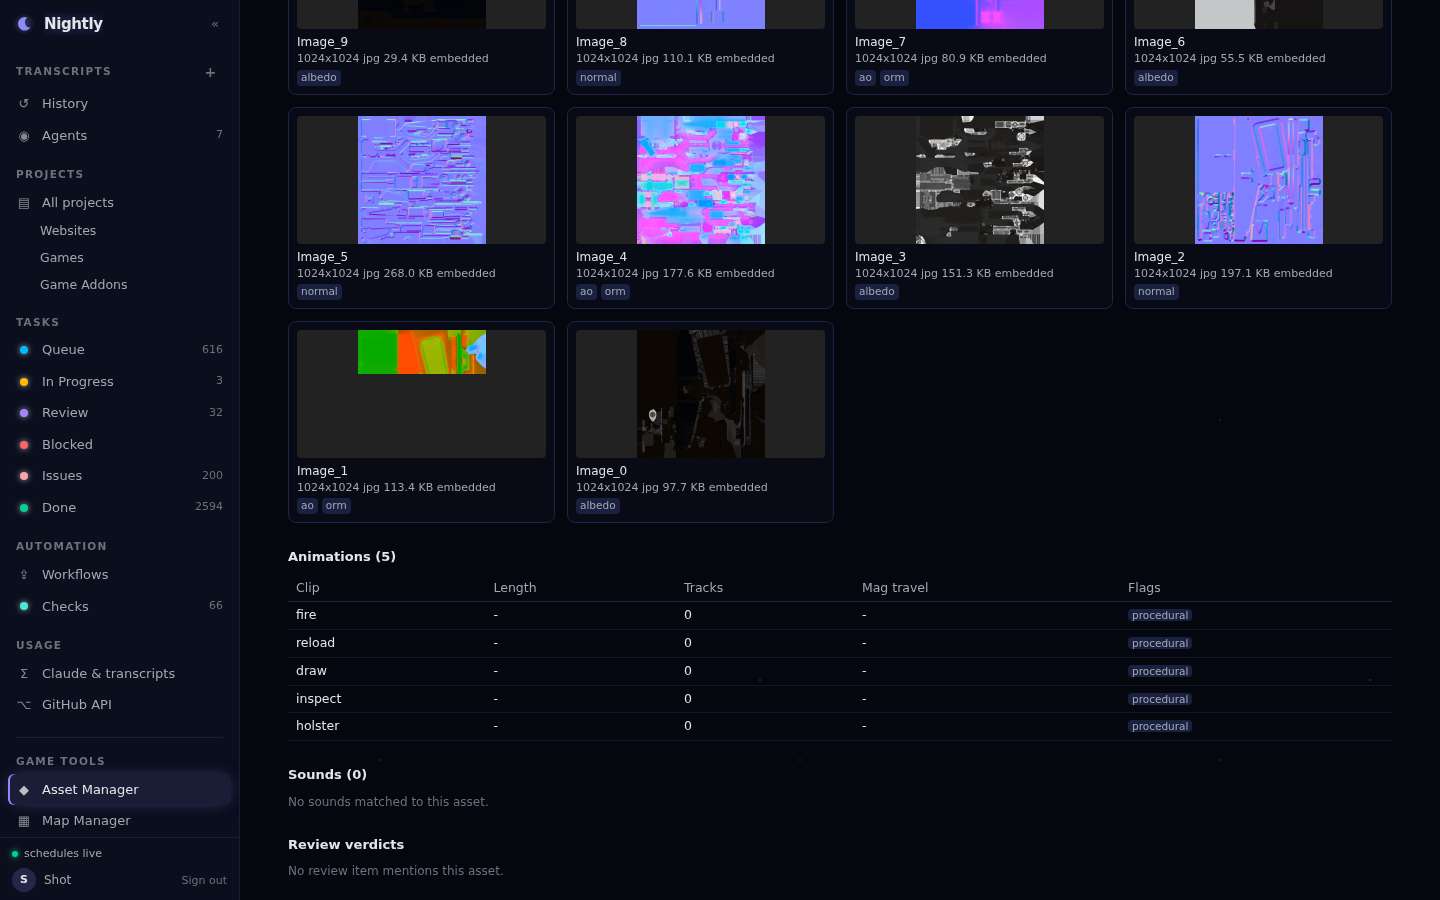
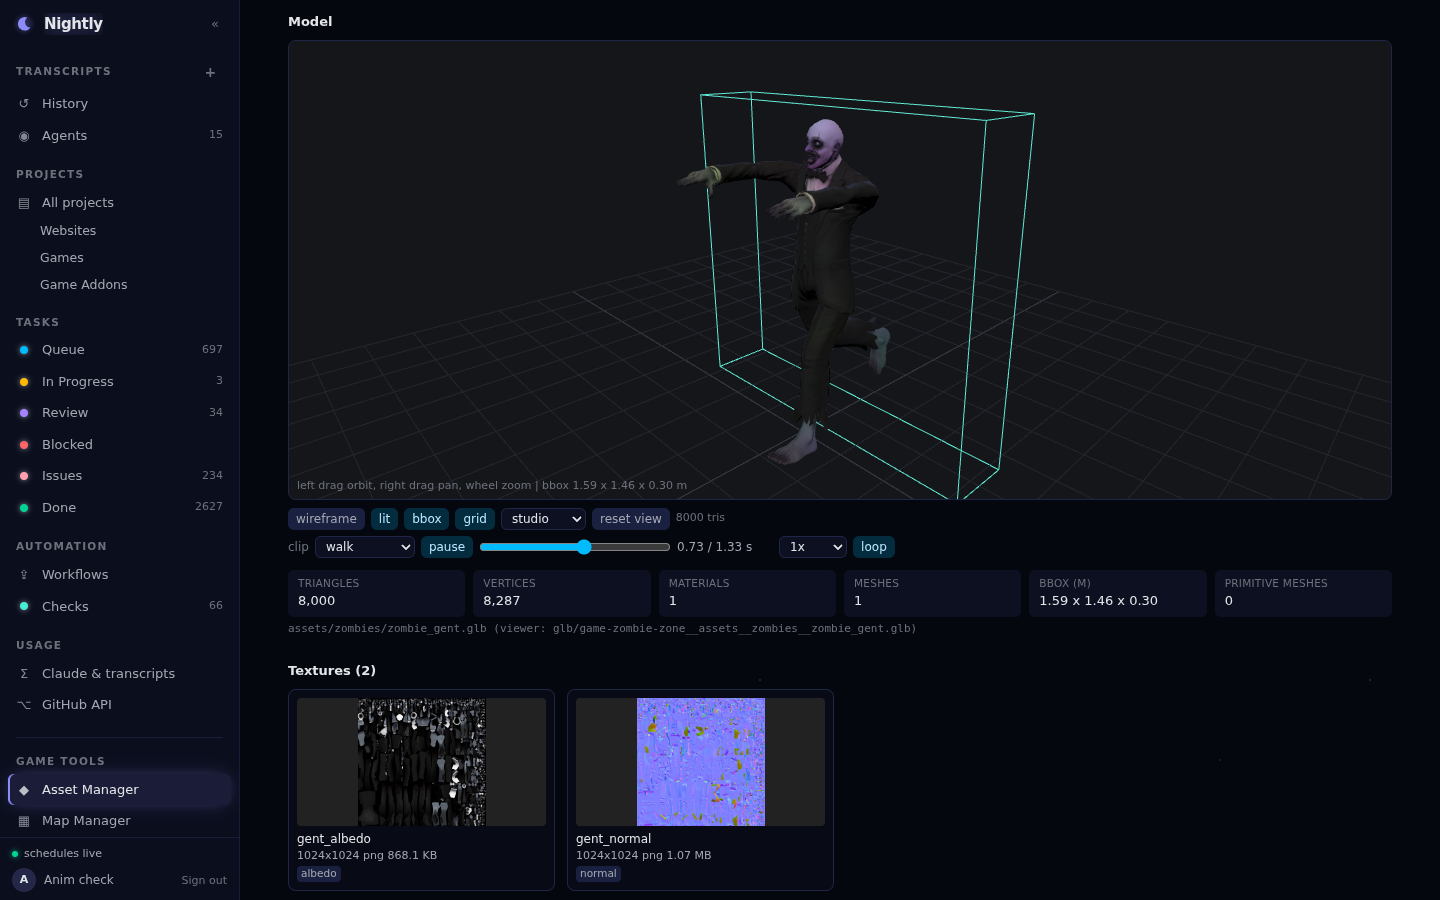
assets: clip playback UI in the Model viewer; clickable Animations rows
AssetViewer runs a THREE.AnimationMixer over gltf.animations with a clip
select, play/pause, scrub + time readout, speed (RATES) and loop toggle.
Starts paused at frame 0 of defaultClip; framing and bbox use the rest pose;
the mixer is stopped and uncached on unmount; no controls without clips.
AssetDetail rows select and play their clip, scroll the viewer into view,
mark the playing row and grey out static or missing clips.

diff --git a/src/components/AssetViewer.tsx b/src/components/AssetViewer.tsx
@@ -2,6 +2,7 @@
 import { useEffect, useRef, useState } from "react"
 import type * as T from "three"
 import { sightMagnification, sightPose, type Sight } from "./sightLine"
+import { advance, clipPlayable, defaultClip, RATES, type ClipInfo } from "../../lib/anim-play.mjs"
 
 type Opts = { wire: boolean; unlit: boolean; bbox: boolean; grid: boolean; light: string; fly: boolean; collision: boolean; trigger: boolean; entity: boolean; view: View }
 type View = "converted" | "original" | "split"
@@ -9,7 +10,13 @@ type Spawn = { x: number; y: number; z: number; yaw: number; team: string }
 const LIGHTS = ["studio", "outdoor", "dark rim", "flat"]
 /** An attachment mounted on the model: its glb, and the transform in the model's space (metres, rotation in degrees). */
 export type Mounted = { key: string; url: string; pos: number[]; rot: number[]; scale: number[] }
-type Api = { apply: (o: Opts) => void; reset: () => void; spawn: (i: number) => void; mount: (list: Mounted[]) => void; sight: (on: boolean, s: Sight | null) => void }
+type Api = { apply: (o: Opts) => void; reset: () => void; spawn: (i: number) => void; mount: (list: Mounted[]) => void; sight: (on: boolean, s: Sight | null) => void; anim: AnimApi }
+type AnimApi = { select: (name: string) => void; play: (on: boolean) => void; seek: (t: number) => void; rate: (r: number) => void; loop: (on: boolean) => void }
+/** What the viewer reports about the GLB's own clips: every clip in the file, the selected one and whether it is playing. */
+export type AnimState = { clips: ClipInfo[]; clip: string; playing: boolean }
+/** A request from outside (the Animations table) to select and play a clip; `n` changes on every click so the same clip can be asked for twice. */
+export type ClipRequest = { clip: string; n: number }
+const fmtT = (t: number) => t.toFixed(2)
 
 /** three.js viewer: orbit (left drag), pan (right drag), zoom (wheel); wireframe, textured/unlit, lighting presets, bounding box (metres) and grid.
  *  `map` (a converted map GLB): starts in free-fly (click to capture the mouse; W/A/S/D move, mouse look, Shift fast, Space up, Ctrl down,
@@ -17,7 +24,21 @@ type Api = { apply: (o: Opts) => void; reset: () => void; spawn: (i: number) => 
  *  and jump-to-spawn from the spawn list in the scene extras. Orbit stays available as a toggle.
  *  `original` (a map's source BSP exported to GLB in the same frame): adds converted / original / split views; the split view draws the
  *  original on the left and the converted map on the right through ONE camera, so fly and orbit move both at once. */
-export function AssetViewer({ url, bbox, textures, map, original, mounted, sight }: { url: string; bbox?: number[]; textures?: { name: string; url: string }[]; map?: boolean; original?: string; mounted?: Mounted[]; sight?: Sight | null }) {
+export function AssetViewer({ url, bbox, textures, map, original, mounted, sight, playClip, onAnim }: { url: string; bbox?: number[]; textures?: { name: string; url: string }[]; map?: boolean; original?: string; mounted?: Mounted[]; sight?: Sight | null; playClip?: ClipRequest | null; onAnim?: (s: AnimState) => void }) {
+    // clip playback (the GLB's own animations): the mixer lives in the effect below; these mirror its state for the controls
+    const [clips, setClips] = useState<ClipInfo[]>([])
+    const [clip, setClip] = useState("")
+    const [playing, setPlaying] = useState(false)
+    const [t, setT] = useState(0)
+    const [rate, setRate] = useState(1)
+    const [loop, setLoop] = useState(true)
+    const onAnimRef = useRef(onAnim)
+    onAnimRef.current = onAnim
+    useEffect(() => { onAnimRef.current?.({ clips, clip, playing }) }, [clips, clip, playing])
+    useEffect(() => {
+        if (!playClip || !api.current || !clips.some((c) => c.name === playClip.clip && clipPlayable(c.length))) return
+        api.current.anim.select(playClip.clip); api.current.anim.play(true)
+    }, [playClip, clips])
     const [sightOn, setSightOn] = useState(false)
     const box = useRef<HTMLDivElement>(null)
     const api = useRef<Api | null>(null)
@@ -58,6 +79,36 @@ export function AssetViewer({ url, bbox, textures, map, original, mounted, sight
             let view: View = "converted"
             let helper: T.Box3Helper | null = null
             let grid: T.GridHelper | null = null
+            // clip playback: one action at a time, the playhead is driven by advance() and sampled with mixer.update(0)
+            let mixer: T.AnimationMixer | null = null
+            const clipMap = new Map<string, T.AnimationClip>()
+            const anim = { action: null as T.AnimationAction | null, name: "", len: 0, t: 0, playing: false, rate: 1, loop: true, shown: 0 }
+            const sample = () => {
+                if (!mixer || !anim.action) return
+                anim.action.time = Math.min(anim.t, Math.max(0, anim.len - 1e-4))   // LoopRepeat would wrap exactly `len` back to frame 0
+                mixer.update(0)
+                el.dataset.anim = `${anim.name} ${fmtT(anim.t)} ${anim.playing ? "playing" : "paused"}`
+            }
+            const animApi: AnimApi = {
+                select: (name) => {
+                    if (!mixer) return
+                    mixer.stopAllAction()   // the last action's bindings drop to zero users and restore the rest pose
+                    const c = clipMap.get(name)
+                    anim.name = name; anim.t = 0; anim.playing = false
+                    anim.action = c && clipPlayable(c.duration) ? mixer.clipAction(c) : null
+                    anim.len = anim.action ? c!.duration : 0
+                    if (anim.action) { anim.action.setLoop(THREE.LoopRepeat, Infinity); anim.action.play() }
+                    sample(); setClip(name); setT(0); setPlaying(false)
+                },
+                play: (on) => {
+                    if (!anim.action) return
+                    if (on && !anim.loop && anim.t >= anim.len) anim.t = 0
+                    anim.playing = on; sample(); setPlaying(on); setT(anim.t)
+                },
+                seek: (v) => { if (!anim.action) return; anim.t = Math.max(0, Math.min(anim.len, v)); sample(); setT(anim.t) },
+                rate: (r) => { anim.rate = r },
+                loop: (on) => { anim.loop = on },
+            }
             const sphere = new THREE.Sphere(new THREE.Vector3(), 1)
             const orig = new Map<T.Mesh, T.Material | T.Material[]>()
             const unlitCache = new Map<T.Material, T.Material>()
@@ -173,7 +224,7 @@ export function AssetViewer({ url, bbox, textures, map, original, mounted, sight
                 camera.position.set(...p.position); camera.lookAt(...p.target); camera.fov = p.fov; camera.updateProjectionMatrix()
                 el.dataset.sight = `${s.key} fov ${p.fov.toFixed(1)}`
             }
-            api.current = { apply, reset, spawn: toSpawn, mount, sight: sightFn }
+            api.current = { apply, reset, spawn: toSpawn, mount, sight: sightFn, anim: animApi }
             if (original) {
                 new GLTFLoader().load(original, (g) => {
                     if (dead) return
@@ -222,6 +273,14 @@ export function AssetViewer({ url, bbox, textures, map, original, mounted, sight
                     if (spawnList.length) toSpawn(0)
                 }
                 apply(optsRef.current)
+                // after the framing above, so the bbox, grid and camera come from the rest pose; skinned meshes keep that rest-pose box while animating
+                if (!map && gltf.animations.length) {
+                    mixer = new THREE.AnimationMixer(root)
+                    for (const c of gltf.animations) clipMap.set(c.name, c)
+                    const list = gltf.animations.map((c) => ({ name: c.name, length: c.duration }))
+                    setClips(list)
+                    animApi.select(defaultClip(list))
+                }
                 let tris = 0
                 root.traverse((n) => { const m = n as T.Mesh; if (m.isMesh) tris += (m.geometry.index ? m.geometry.index.count : m.geometry.attributes.position.count) / 3 })
                 setState(`ok ${Math.round(tris)} tris`)
@@ -233,6 +292,14 @@ export function AssetViewer({ url, bbox, textures, map, original, mounted, sight
             const tick = () => {
                 raf = requestAnimationFrame(tick)
                 const dt = Math.min(0.1, clock.getDelta())
+                if (anim.playing && anim.action) {
+                    const r = advance(anim.t, dt, anim.rate, anim.len, anim.loop)
+                    anim.t = r.t
+                    if (r.ended) { anim.playing = false; setPlaying(false) }
+                    sample()
+                    anim.shown += dt
+                    if (anim.shown > 0.066 || r.ended) { anim.shown = 0; setT(anim.t) }   // the readout and slider at ~15 Hz, not every frame
+                }
                 if (fly.on) {
                     const k = fly.keys, v = fly.speed * dt * (k.has("ShiftLeft") || k.has("ShiftRight") ? 4 : 1)
                     const fwd = new THREE.Vector3(); camera.getWorldDirection(fwd)
@@ -256,6 +323,7 @@ export function AssetViewer({ url, bbox, textures, map, original, mounted, sight
             tick()
             cleanup = () => {
                 cancelAnimationFrame(raf); ro.disconnect(); controls.dispose()
+                if (mixer) { mixer.stopAllAction(); if (root) mixer.uncacheRoot(root); for (const c of clipMap.values()) mixer.uncacheClip(c); mixer = null }
                 document.removeEventListener("pointerlockchange", onLock); document.removeEventListener("mousemove", onMove)
                 document.removeEventListener("keydown", kd); document.removeEventListener("keyup", ku)
                 if (document.pointerLockElement === renderer.domElement) document.exitPointerLock()
@@ -263,7 +331,7 @@ export function AssetViewer({ url, bbox, textures, map, original, mounted, sight
                 renderer.dispose(); renderer.domElement.remove()
             }
         })()
-        return () => { dead = true; api.current = null; cleanup() }
+        return () => { dead = true; api.current = null; cleanup(); setClips([]); setClip(""); setPlaying(false); setT(0); setRate(1); setLoop(true) }
     }, [url, original])
     const btn = (on: boolean) => `rounded-md px-2 py-0.5 text-[12px] ${on ? "bg-sky-400/20 text-sky-200" : "bg-hover text-dim hover:text-fg"}`
     return (
@@ -291,6 +359,27 @@ export function AssetViewer({ url, bbox, textures, map, original, mounted, sight
                 <button className={btn(false)} onClick={() => { setSightOn(false); api.current?.reset() }}>reset view</button>
                 <span className="text-[11px] text-muted">{state.startsWith("ok") ? state.slice(3) : ""}{original && ostate.startsWith("ok") ? ` (original ${ostate.slice(3)})` : ""}</span>
             </div>
+            {clips.length > 0 && (() => {
+                const cur = clips.find((c) => c.name === clip)
+                const len = cur && clipPlayable(cur.length) ? cur.length : 0
+                const sel = "rounded-md border border-line bg-panel px-1.5 py-0.5 text-[12px]"
+                return (
+                    <div className="mt-1.5 flex flex-wrap items-center gap-1.5 text-[12px]" data-testid="anim-controls">
+                        <span className="text-muted">clip</span>
+                        <select className={sel} value={clip} data-testid="anim-clip" onChange={(e) => api.current?.anim.select(e.target.value)}>
+                            {clips.map((c) => <option key={c.name} value={c.name} disabled={!clipPlayable(c.length)}>{c.name}{clipPlayable(c.length) ? "" : " (static)"}</option>)}
+                        </select>
+                        <button className={btn(playing)} disabled={!len} data-testid="anim-play" onClick={() => api.current?.anim.play(!playing)}>{playing ? "pause" : "play"}</button>
+                        <input type="range" min={0} max={len || 1} step={0.001} value={Math.min(t, len)} disabled={!len} data-testid="anim-scrub" className="w-48 accent-sky-400"
+                            onChange={(e) => { if (playing) api.current?.anim.play(false); api.current?.anim.seek(Number(e.target.value)) }} />
+                        <span className="w-24 tabular-nums text-dim" data-testid="anim-time">{fmtT(Math.min(t, len))} / {fmtT(len)} s</span>
+                        <select className={sel} value={rate} data-testid="anim-rate" onChange={(e) => { const r = Number(e.target.value); setRate(r); api.current?.anim.rate(r) }}>
+                            {RATES.map((r) => <option key={r} value={r}>{r}x</option>)}
+                        </select>
+                        <button className={btn(loop)} data-testid="anim-loop" onClick={() => { setLoop(!loop); api.current?.anim.loop(!loop) }}>loop</button>
+                    </div>
+                )
+            })()}
         </div>
     )
 }

diff --git a/src/components/AssetDetail.tsx b/src/components/AssetDetail.tsx
@@ -1,7 +1,8 @@
 "use client"
 import Link from "next/link"
 import { useEffect, useRef, useState } from "react"
-import { AssetViewer, type Mounted } from "./AssetViewer"
+import { AssetViewer, type AnimState, type ClipRequest, type Mounted } from "./AssetViewer"
+import { clipPlayable } from "../../lib/anim-play.mjs"
 import { AssetViewModel } from "./AssetViewModel"
 import { AssetThirdPerson } from "./AssetThirdPerson"
 import { sightOf } from "./sightLine"
@@ -119,6 +120,16 @@ export function AssetDetail({ d, reviews }: { d: DetailData; reviews: ReviewHit[
     const [mode, setMode] = useState<"model" | "viewmodel" | "thirdperson">("model")
     const vm = mode !== "model"
     const baked = (x.animations ?? []).some((a) => a.flags?.includes("baked"))
+    // the Model viewer reports the GLB's clips; a click on an Animations row asks it to play that clip (matched by name)
+    const [anim, setAnim] = useState<AnimState | null>(null)
+    const [clipReq, setClipReq] = useState<ClipRequest | null>(null)
+    const viewerBox = useRef<HTMLDivElement>(null)
+    const viewerAnim = d.hasModel && !x.map && !vm   // rows play only in the plain Model viewer, never the baked viewmodel / third-person ones
+    const playRow = (name: string) => {
+        setClipReq((r) => ({ clip: name, n: (r?.n ?? 0) + 1 }))
+        const b = viewerBox.current?.getBoundingClientRect()
+        if (b && (b.bottom < 0 || b.top > window.innerHeight)) viewerBox.current!.scrollIntoView({ behavior: "smooth", block: "center" })
+    }
     return (
         <div className="mx-auto max-w-6xl px-6 py-5 max-md:px-3">
             <h1 className="text-[15px] font-semibold tracking-tight"><Link href={d.tab === "maps" ? "/tools/maps" : "/tools/assets"} className="hover:text-sky-300">{d.tab === "maps" ? "Maps" : "Assets"}</Link> <span className="text-muted">/</span> <Link href={listHref(d.tab, { pack: d.pack })} className="hover:text-sky-300">{d.pack}</Link> <span className="text-muted">/</span> <span title={d.weaponId}>{d.display}</span> <span className="font-mono text-[11px] font-normal text-muted">{d.weaponId}</span></h1>
@@ -146,7 +157,7 @@ export function AssetDetail({ d, reviews }: { d: DetailData; reviews: ReviewHit[
                         {(["model", "viewmodel", "thirdperson"] as const).map((v) => <button key={v} onClick={() => setMode(v)} data-testid={`mode-${v}`} className={`rounded border px-2 py-0.5 ${mode === v ? "border-sky-300 text-sky-300" : "border-line text-muted"}`}>{v === "model" ? "Model" : v === "viewmodel" ? "View model" : "Third-person"}</button>)}
                     </div>
                 )}
-                {d.hasModel && baked && vm && !x.map ? (mode === "thirdperson" ? <AssetThirdPerson glbUrl={fileUrl(d.id, "glb", 0)} animUrl={fileUrl(d.id, "anim", 0)} mounted={mounted} sight={sight} /> : <AssetViewModel glbUrl={fileUrl(d.id, "glb", 0)} animUrl={fileUrl(d.id, "anim", 0)} mounted={mounted} sight={sight} />) : d.hasModel ? (x.map ? <MapModel d={d} x={x} /> : <AssetViewer url={fileUrl(d.id, "glb", 0)} mounted={mounted} sight={sight} bbox={x.model?.bbox} textures={(x.textures ?? []).map((t, i) => ({ name: t.name, url: fileUrl(d.id, "tex", i) }))} />) : <div className="rounded-lg border border-line p-6 text-center text-[12px] text-muted">No model file for this asset.</div>}
+                {d.hasModel && baked && vm && !x.map ? (mode === "thirdperson" ? <AssetThirdPerson glbUrl={fileUrl(d.id, "glb", 0)} animUrl={fileUrl(d.id, "anim", 0)} mounted={mounted} sight={sight} /> : <AssetViewModel glbUrl={fileUrl(d.id, "glb", 0)} animUrl={fileUrl(d.id, "anim", 0)} mounted={mounted} sight={sight} />) : d.hasModel ? (x.map ? <MapModel d={d} x={x} /> : <div ref={viewerBox}><AssetViewer url={fileUrl(d.id, "glb", 0)} mounted={mounted} sight={sight} playClip={clipReq} onAnim={setAnim} bbox={x.model?.bbox} textures={(x.textures ?? []).map((t, i) => ({ name: t.name, url: fileUrl(d.id, "tex", i) }))} /></div>) : <div className="rounded-lg border border-line p-6 text-center text-[12px] text-muted">No model file for this asset.</div>}
                 {d.hasModel && !x.map && d.attachments.length > 0 && <AttachPicker links={d.attachments} picked={picked} setPicked={setPicked} />}
                 <div className="mt-3 grid grid-cols-2 gap-2 sm:grid-cols-4 lg:grid-cols-6">
                     <Stat k="triangles" v={(x.model?.tris ?? 0).toLocaleString("en-GB")} /><Stat k="vertices" v={(x.model?.verts ?? 0).toLocaleString("en-GB")} /><Stat k="materials" v={x.model?.materials ?? 0} /><Stat k="meshes" v={x.model?.meshes ?? 0} />
@@ -192,9 +203,16 @@ export function AssetDetail({ d, reviews }: { d: DetailData; reviews: ReviewHit[
             <Section id="animations" title={`Animations (${(x.animations ?? []).length})`}>
                 {(x.animations ?? []).length ? (
                     <table className="w-full text-[12.5px]"><thead><tr className="border-b border-line text-left text-dim"><th className="px-2 py-1 font-medium">Clip</th><th className="px-2 py-1 font-medium">Length</th><th className="px-2 py-1 font-medium">Tracks</th><th className="px-2 py-1 font-medium">Mag travel</th><th className="px-2 py-1 font-medium">Flags</th></tr></thead>
-                        <tbody>{x.animations!.map((a) => (
-                            <tr key={a.name} className="border-b border-line/50"><td className="px-2 py-1">{a.name}</td><td className="px-2 py-1 tabular-nums">{a.length == null ? "-" : `${a.length.toFixed(2)} s`}</td><td className="px-2 py-1 tabular-nums">{a.tracks}</td><td className="px-2 py-1 tabular-nums">{a.mag_displacement == null ? "-" : `${a.mag_displacement.toFixed(3)} m`}</td>
-                                <td className="px-2 py-1">{(a.flags ?? []).map((f) => <span key={f} className={`mr-1 rounded px-1 text-[10.5px] ${/static|no_tracks/.test(f) ? "bg-amber-400/15 text-amber-300" : "bg-hover text-dim"}`}>{f}</span>)}</td></tr>))}</tbody></table>
+                        <tbody>{x.animations!.map((a) => {
+                            const g = viewerAnim && anim?.clips.length ? anim.clips.find((c) => c.name === a.name) : undefined
+                            const ok = !!g && clipPlayable(g.length)
+                            const note = !viewerAnim || !anim?.clips.length ? "" : !g ? "not in the GLB" : !ok ? "static, nothing to play" : ""
+                            const cur = ok && anim?.clip === a.name
+                            return (
+                            <tr key={a.name} data-testid={`anim-row-${a.name}`} data-playing={cur && anim?.playing ? "1" : undefined} onClick={ok ? () => playRow(a.name) : undefined} title={ok ? "play in the viewer" : note || undefined}
+                                className={`border-b border-line/50 ${ok ? "cursor-pointer hover:bg-hover" : ""} ${cur ? "bg-sky-400/10" : ""} ${note ? "text-muted" : ""}`}>
+                                <td className="px-2 py-1"><span className="inline-block w-4 text-sky-300">{cur && anim?.playing ? "\u25B6" : ""}</span>{a.name}{note && <span className="ml-2 text-[11px] italic">{note}</span>}</td><td className="px-2 py-1 tabular-nums">{a.length == null ? "-" : `${a.length.toFixed(2)} s`}</td><td className="px-2 py-1 tabular-nums">{a.tracks}</td><td className="px-2 py-1 tabular-nums">{a.mag_displacement == null ? "-" : `${a.mag_displacement.toFixed(3)} m`}</td>
+                                <td className="px-2 py-1">{(a.flags ?? []).map((f) => <span key={f} className={`mr-1 rounded px-1 text-[10.5px] ${/static|no_tracks/.test(f) ? "bg-amber-400/15 text-amber-300" : "bg-hover text-dim"}`}>{f}</span>)}</td></tr>)})}</tbody></table>
                 ) : <div className="text-[12px] text-muted">The model carries no animation clips.</div>}
                 <ReviewMedia reviews={reviews} slots={["filmstrip", "clip", "image", "screenshot"]} />
             </Section>
